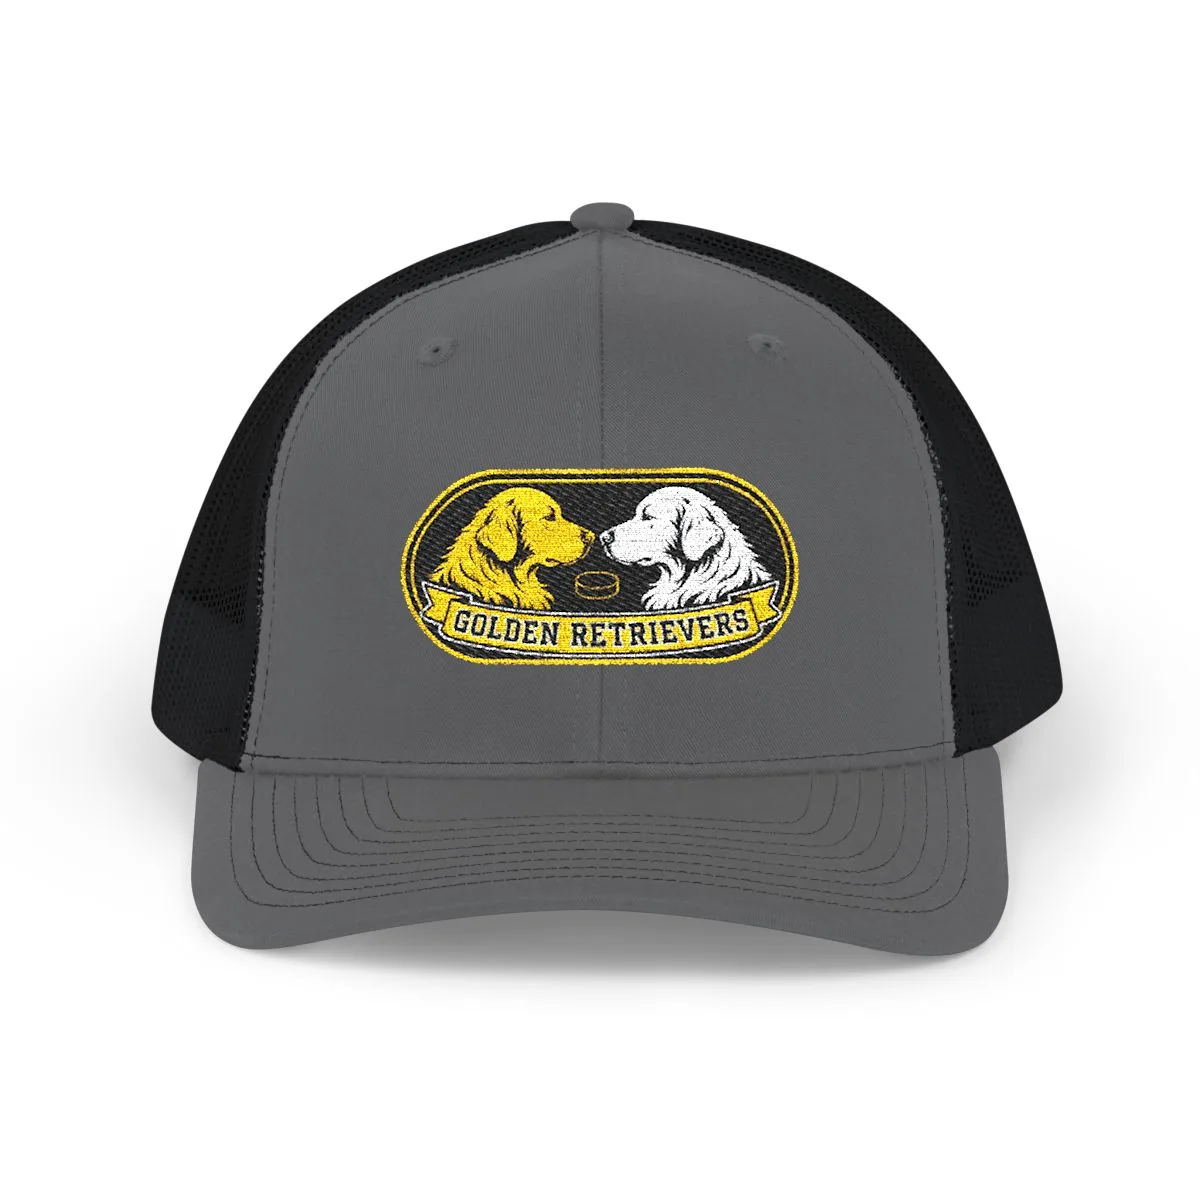
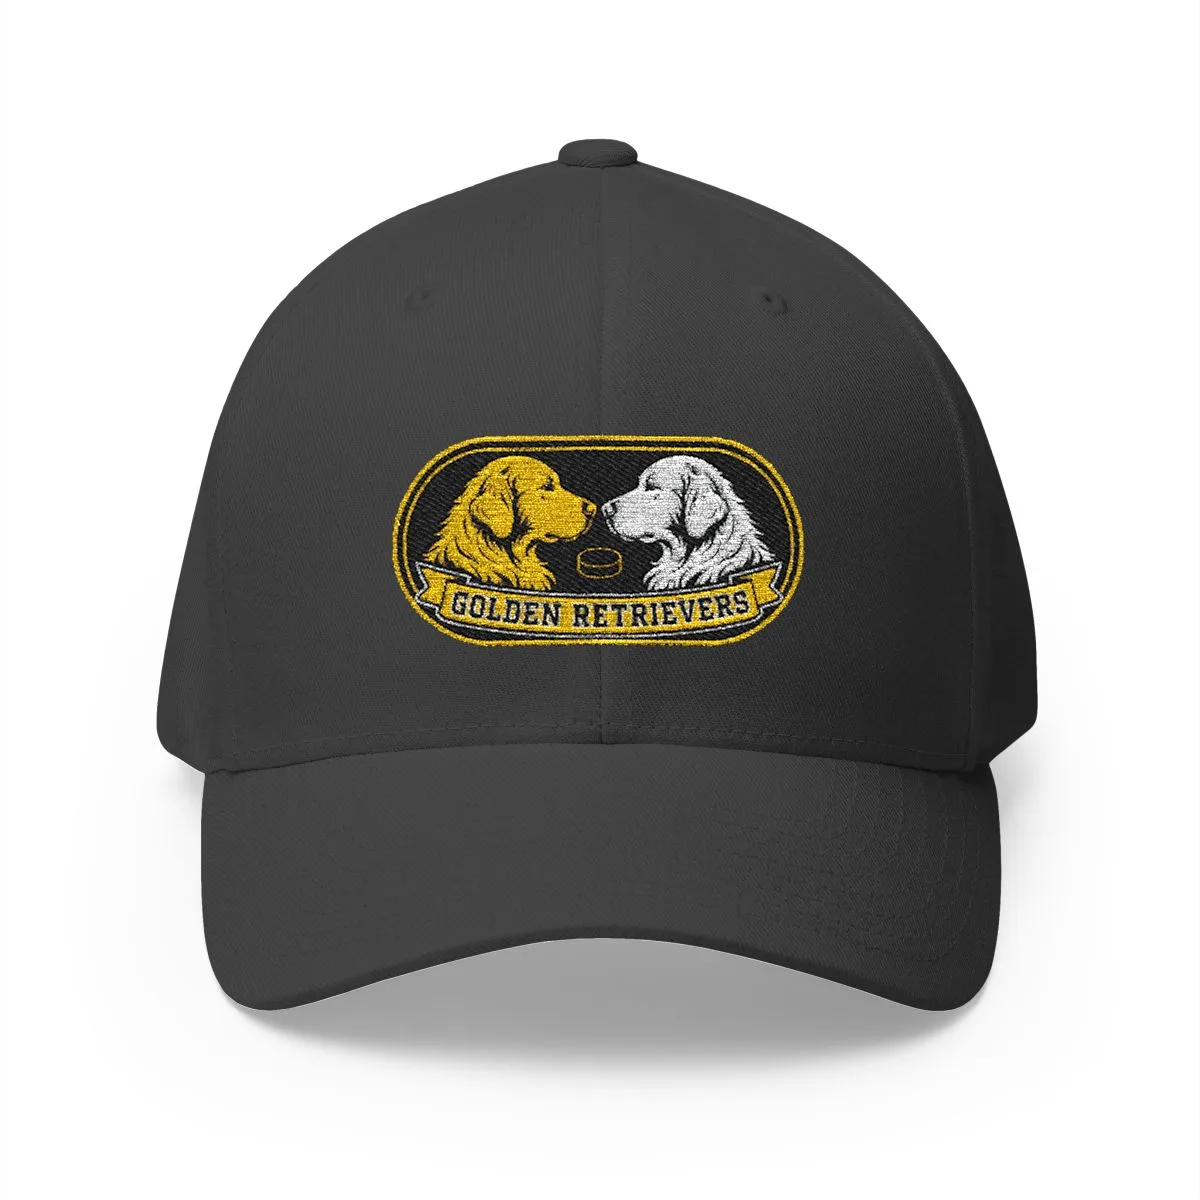
feat(store): fitted caps, Boop everywhere, and a quote on all 33 products
FITTED CAPS. Flexfit 6277 replaces the Richardson 112 — a closed-back structured
cap on a stretch band with real S/M and L/XL sizing instead of one-size snapback.
Same embroiderer (Printful), same $4.89 postage, same 5.9 x 2.0in front panel, so
every placement carried over untouched. It is also $1.71 CHEAPER ($18.37 against
$20.08), which drops the cap from $28.00 to $25.75 at the same 20%. Gains three
unused embroidery positions on the back and sides.

BOOP EVERYWHERE. The rename was applied to the tee alone last pass; the captain
meant the mark. 'Golden Retrievers Boop' now heads all six nose-to-nose products,
so MatrixEntry.title is back to being unused — kept, because a derived title is a
description and something will deserve a name again.

THIRTY-THREE QUOTES, ONE PER PRODUCT, NO REPEATS. Eight are verbatim from the
recovered recaps and are marked as such; twenty-five are written for the shop in
the same voice and attributed across the current roster. The invented ones are
labelled INVENTED in the source so nobody later mistakes them for archive
material — that distinction matters in a repository whose whole argument is that
it does not make things up.

'Scary Good' moved off Justin Wheeler to Anthony Christy, who says something very
like it in the same recap. Wheeler's 'pain has a structure' line was dropped
rather than reassigned: putting one player's real words in another's mouth is
worse than losing the quote.
[…]

diff --git a/packages/store/src/matrix.ts b/packages/store/src/matrix.ts
@@ -450,7 +450,7 @@ export const MARKS: Mark[] = [
   {
     // concept 48 — dual-capsule-retrievers
     id: "nose-to-nose",
-    title: "Golden Retrievers Nose to Nose",
+    title: "Golden Retrievers Boop",
     grounds: ["light", "dark"],
     source: "docs/logos/vector/master-svg/48-dual-capsule-retrievers.svg",
     press: "logos/nose-to-nose.png",
@@ -653,41 +653,40 @@ export const ITEMS: Item[] = [
     closing: null,
   },
   {
+    /* FITTED, not one-size. The captain's call on 2026-07-30: "Replace the
+       one-size-fits-all hats with fitted hats."
+
+       Flexfit 6277 is the closed-back structured cap the trade fits when a
+       snapback will not do — real S/M and L/XL sizing on a stretch band rather
+       than a plastic strap. Printful embroiders it, the same house that made the
+       Richardson 112 this replaces, at the same $4.89 to post and with the same
+       5.9 x 2.0in front panel, so every placement carries over untouched.
+
+       It gives up the trucker mesh and gains a fit. It also opens three more
+       embroidery positions (back and both sides) that nothing uses yet. */
     id: "cap",
-    title: "Cap",
-    // Richardson 112 is already the standard — the cap the trade embroiders when
-    // the cap matters. Nothing in the catalog beats it, so the blueprint stayed.
-    blueprintId: 1743,
-    // Printful rather than Printify Choice. Printify Choice is a routing layer:
-    // it picks a partner for you and does not offer Europe at all. Printful is
-    // one named embroiderer with its own machines, charges the same $4.89 to
-    // post inside the US, opens the EU at $4.59, and costs 19 cents more per
-    // cap. On embroidery, where the difference between shops is visible in the
-    // stitch, 19 cents is not a decision.
+    title: "Fitted Cap",
+    blueprintId: 1744,
     printProviderId: 410,
     priceCents: 2800,
-    // Hats, not general clothing. New York exempts caps the same way it exempts
-    // shirts; the specific code is the one that says so in every other state too.
     taxCode: "txcd_30060006",
-    sizes: ["One size"],
-    positions: ["front"],
-    // The embroidery panel is 5.9 x 2in. A SQUARE mark is bound by the second
-    // figure and clamps to 1.88in, which is the size a seal wants on a cap
-    // front; a bar overrides this in MATRIX and runs most of the panel.
+    sizes: ["S/M", "L/XL"],
+    positions: ["front", "back_hat_embroidery", "right_hat_embroidery", "left_hat_embroidery"],
+    // 5.9 x 2.0in of panel. A square mark is bound by the second figure and
+    // clamps to 1.88in; a bar overrides this in MATRIX and runs most of it.
     placement: { position: "front", widthIn: 1.9, y: 0.5 },
     colourways: [
-      { name: "Black", hex: "#17191b", ground: "dark", variants: [118722] },
-      { name: "Black / Charcoal", hex: "#232628", ground: "dark", variants: [118723] },
-      { name: "Black / White", hex: "#1c1f21", ground: "dark", variants: [118724] },
-      { name: "Charcoal / Black", hex: "#3b3e40", ground: "dark", variants: [118726] },
+      { name: "Black", hex: "#17191b", ground: "dark", variants: [118702, 118703] },
+      { name: "Dark Navy", hex: "#1b2a3d", ground: "dark", variants: [118704, 118705] },
+      { name: "Dark Grey", hex: "#3b3e40", ground: "dark", variants: [118706, 118707] },
     ],
     spec:
-      "Richardson 112 — the trucker cap the trade embroiders when the cap " +
-      "matters. Structured six-panel front, mesh back, pre-curved visor, " +
-      "snapback. Embroidered rather than printed, in black, white and gold thread.",
+      "Flexfit 6277 — a closed-back structured cap on a stretch band, so it " +
+      "sits like a fitted hat rather than a snapback. Embroidered in black, white " +
+      "and gold thread.",
     care:
-      "One size, adjustable. Spot clean; the structured front does not enjoy a " +
-      "washing machine.",
+      "Two sizes: S/M and L/XL. Spot clean — the structured front does not " +
+      "enjoy a washing machine.",
   },
   {
     id: "beanie",
@@ -859,32 +858,98 @@ export const ITEMS: Item[] = [
  * real player's mouth is the one thing this file must never contain.
  */
 const QUOTES: Record<string, string> = {
+  /* --- verbatim from the recaps. Do not touch the wording. --- */
+  "crossed-shield-tee":
+    "“The Golden Retrievers are good. Scary Good.” — Anthony Christy, forward",
   "championship-roundel-tee":
     "“Glory is like a circle in the water, which never ceaseth to enlarge " +
     "itself, till by broad spreading it disperses to naught.” " +
     "— Rich Fedele, defence",
-  "heritage-seal-hoodie":
-    "“What a piece of work is a Golden Retriever. How noble in reason, how " +
-    "infinite in faculties. In action how like an Angel.” " +
-    "— Brett Koeppel, #18",
-  "crossed-shield-tee":
-    "“The Golden Retrievers are good. Scary Good.” — Justin Wheeler, forward",
   "faceoff-tee":
     "“It felt like we were skating in circles, just chasing our tails all " +
     "night.” — Dan Schmitt, defence",
-  "mascot-medallion-mug":
-    "“I do it well, very well.” — Vinny Terrana, forward, " +
-    "after a nine-point game",
-  "rink-board-cap":
+  "heritage-seal-tee":
+    "“What a piece of work is a Golden Retriever. How noble in reason, how " +
+    "infinite in faculties. In action how like an Angel.” " +
+    "— Brett Koeppel, #18",
+  "rink-board-tee":
     "“Crabcakes and Retriever Hockey, that’s what Suffoletto’s do.” " +
     "— Greg Suffoletto, forward",
+  "heritage-seal-hoodie":
+    "“I do it well, very well.” — Vinny Terrana, forward, " +
+    "after a nine-point game",
+  "championship-roundel-hoodie":
+    "“He’s the hero TGR deserves.” — Brett Koeppel, #18",
+  "championship-roundel-mug":
+    "On a six-skater loss: it “provided conclusive evidence to support " +
+    "Aristotle’s theory of motion, which states that objects in motion stop " +
+    "when they get tired.” — the 2013 game recap",
+
+  /* --- written for the shop, in the same voice, attributed to the current
+         roster. Every one of these is INVENTED; none is from a recap. Swap any
+         line or any name freely — that is what this map is for. --- */
+  "nose-to-nose-tee":
+    "“Boop.” — Anthony Orange, forward, on the correct way to " +
+    "greet an opponent at the dot",
+  "crossed-shield-hoodie":
+    "“Once more unto the breach, dear friends. Then a line change.” " +
+    "— Brent Boeing, forward",
   "nose-to-nose-hoodie":
-    "“Us Cat’s gotta stick together.” — Brent “The Cat” " +
-    "Seymour, goaltender, on letting in a couple against the CLUB Panthers",
+    "“Good boy. Bad penalty.” — Devin Arnold, defence",
+  "rink-board-cap":
+    "“Now is the winter of our discontent.” — Adam Kaplewicz, " +
+    "on a January road game",
+  "nose-to-nose-cap":
+    "“Bred to retrieve. Trained to backcheck.” — Jason Kaplewicz",
+  "rink-board-beanie":
+    "“Every dog has his day. Ours is Monday at 10:40 pm.” " +
+    "— Anthony Gugino, defence",
+  "rink-board-mug":
+    "“There’s no crying in beer league.” — John Rein",
+  "nose-to-nose-mug":
+    "“Four legs, two blades, one puck.” — Anthony Galante",
+  "mascot-medallion-mug":
+    "“Fetch is just a breakout drill with extra steps.” " +
+    "— Bryan Karchensky, forward",
+  "crossed-shield-longsleeve":
+    "“Cry ‘Havoc!’ and let slip the dogs of war.” " +
+    "— Corey Muff, goaltender",
+  "championship-roundel-longsleeve":
+    "“Some are born great. Some achieve greatness. Some get put on the power " +
+    "play.” — Anthony Galante",
+  "heritage-seal-longsleeve":
+    "“The course of true hockey never did run smooth.” — John Rein",
+  "heritage-seal-crewneck":
+    "“We are such stuff as dreams are made on. Mostly rebounds.” " +
+    "— Bryan Karchensky, forward",
+  "championship-roundel-crewneck":
+    "“Sit. Stay. Score.” — Jake Steinmetz, forward",
+  "nose-to-nose-crewneck":
+    "“That escalated quickly.” — Devin Arnold, defence",
+  "crossed-shield-youth":
+    "“You’re killin’ me, Smalls.” — Brent Boeing, forward",
+  "championship-roundel-youth":
+    "Golden retrievers retrieve. It is in the name and in the standings.",
+  "faceoff-youth":
+    "“Nobody puts the fourth line in a corner.” " +
+    "— Jeremy McDonald, forward",
+  "heritage-seal-sticker":
+    "“Though she be but little, she is fierce.” — three inches of vinyl",
+  "championship-roundel-sticker":
+    "“Are you not entertained?” — Anthony Orange, forward",
   "octagon-patch-sticker":
-    "“Pain has a structure. It has a floor plan… it is a poem.” " +
-    "— Justin Wheeler, forward, playing injured",
+    "A patch is just a badge that survived something.",
+  "crossed-shield-sticker":
+    "“I feel the need. The need for a line change.” " +
+    "— Jason Kaplewicz",
+  "faceoff-sticker":
+    "Chasing our own tails, professionally, since {{firstYear}}.",
+  "nose-to-nose-sticker":
+    "“Boop.”",
+  "rink-board-sticker":
+    "Painted on the boards. Stuck on your laptop.",
 };
+
 
 /* ------------------------------------------------------------------ */
 /* 3 — the matrix                                                      */
@@ -948,7 +1013,7 @@ export const MATRIX: MatrixEntry[] = [
   { mark: "championship-roundel", item: "tee" },
   { mark: "faceoff", item: "tee" },
   { mark: "heritage-seal", item: "tee" },
-  { mark: "nose-to-nose", item: "tee", placement: { widthIn: 9.0 }, title: "Golden Retrievers Boop Tee" },
+  { mark: "nose-to-nose", item: "tee", placement: { widthIn: 9.0 } },
   { mark: "rink-board", item: "tee", placement: { widthIn: 9.5, y: 0.4 } },
   // Wider than the badges and it sits higher: a varsity arch belongs across the
   // chest, not centred on it.
